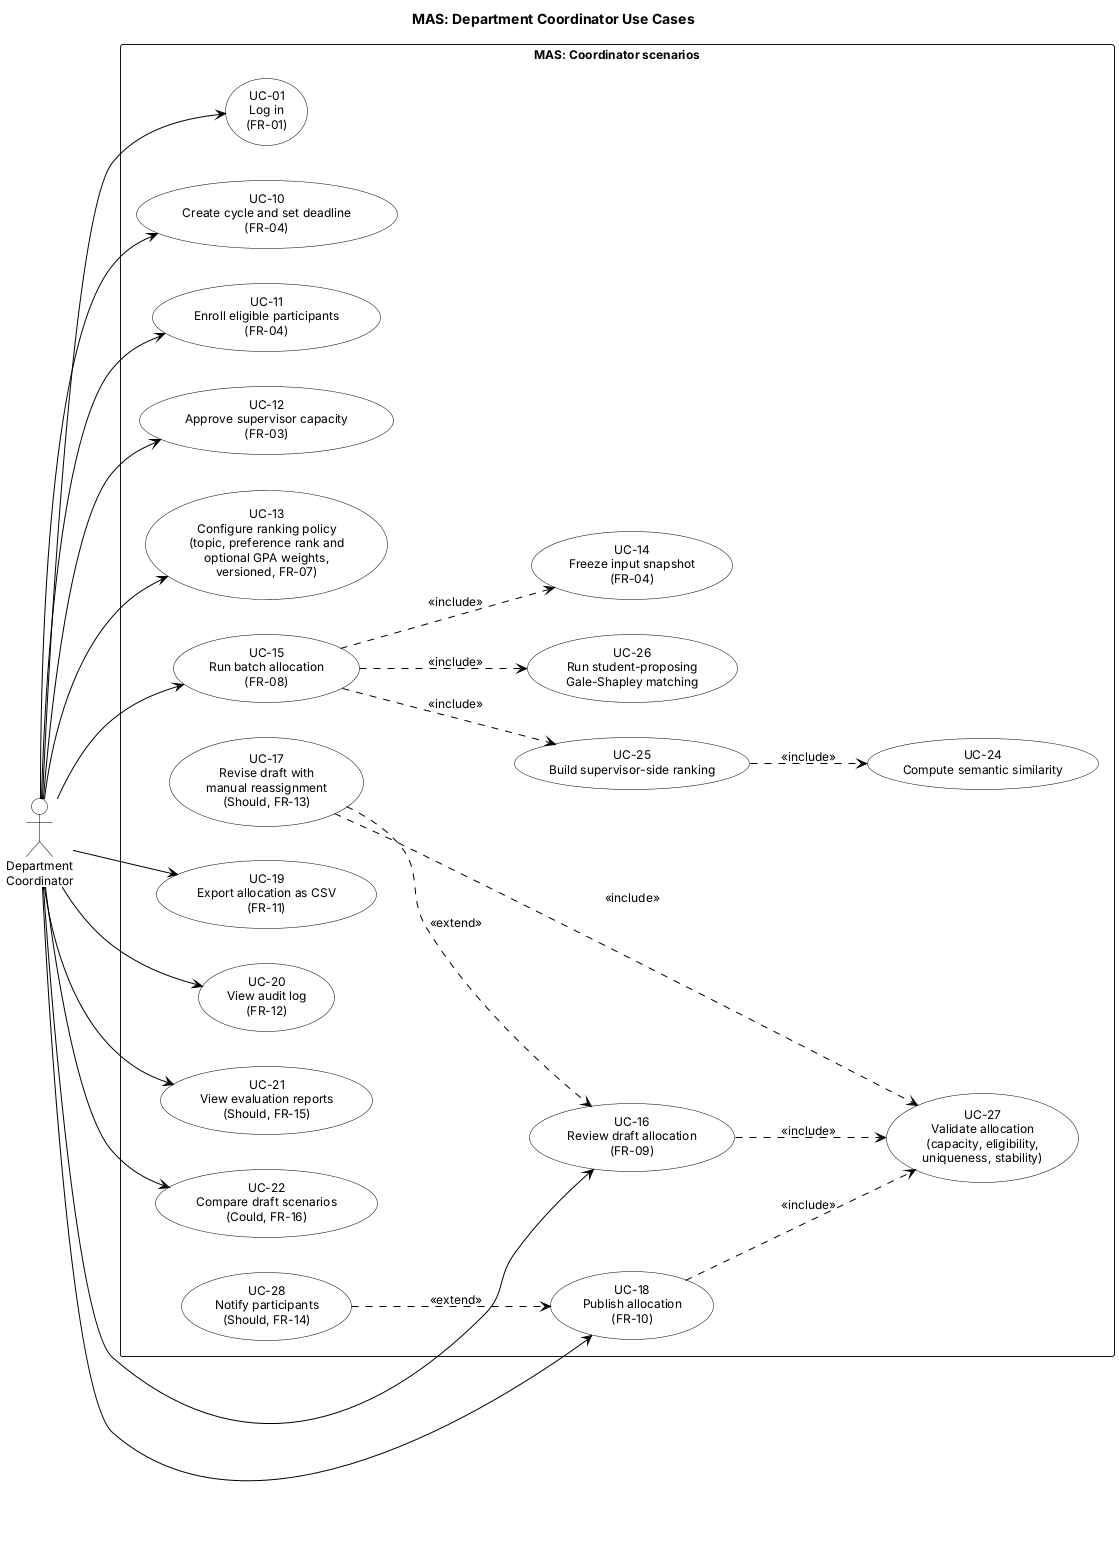
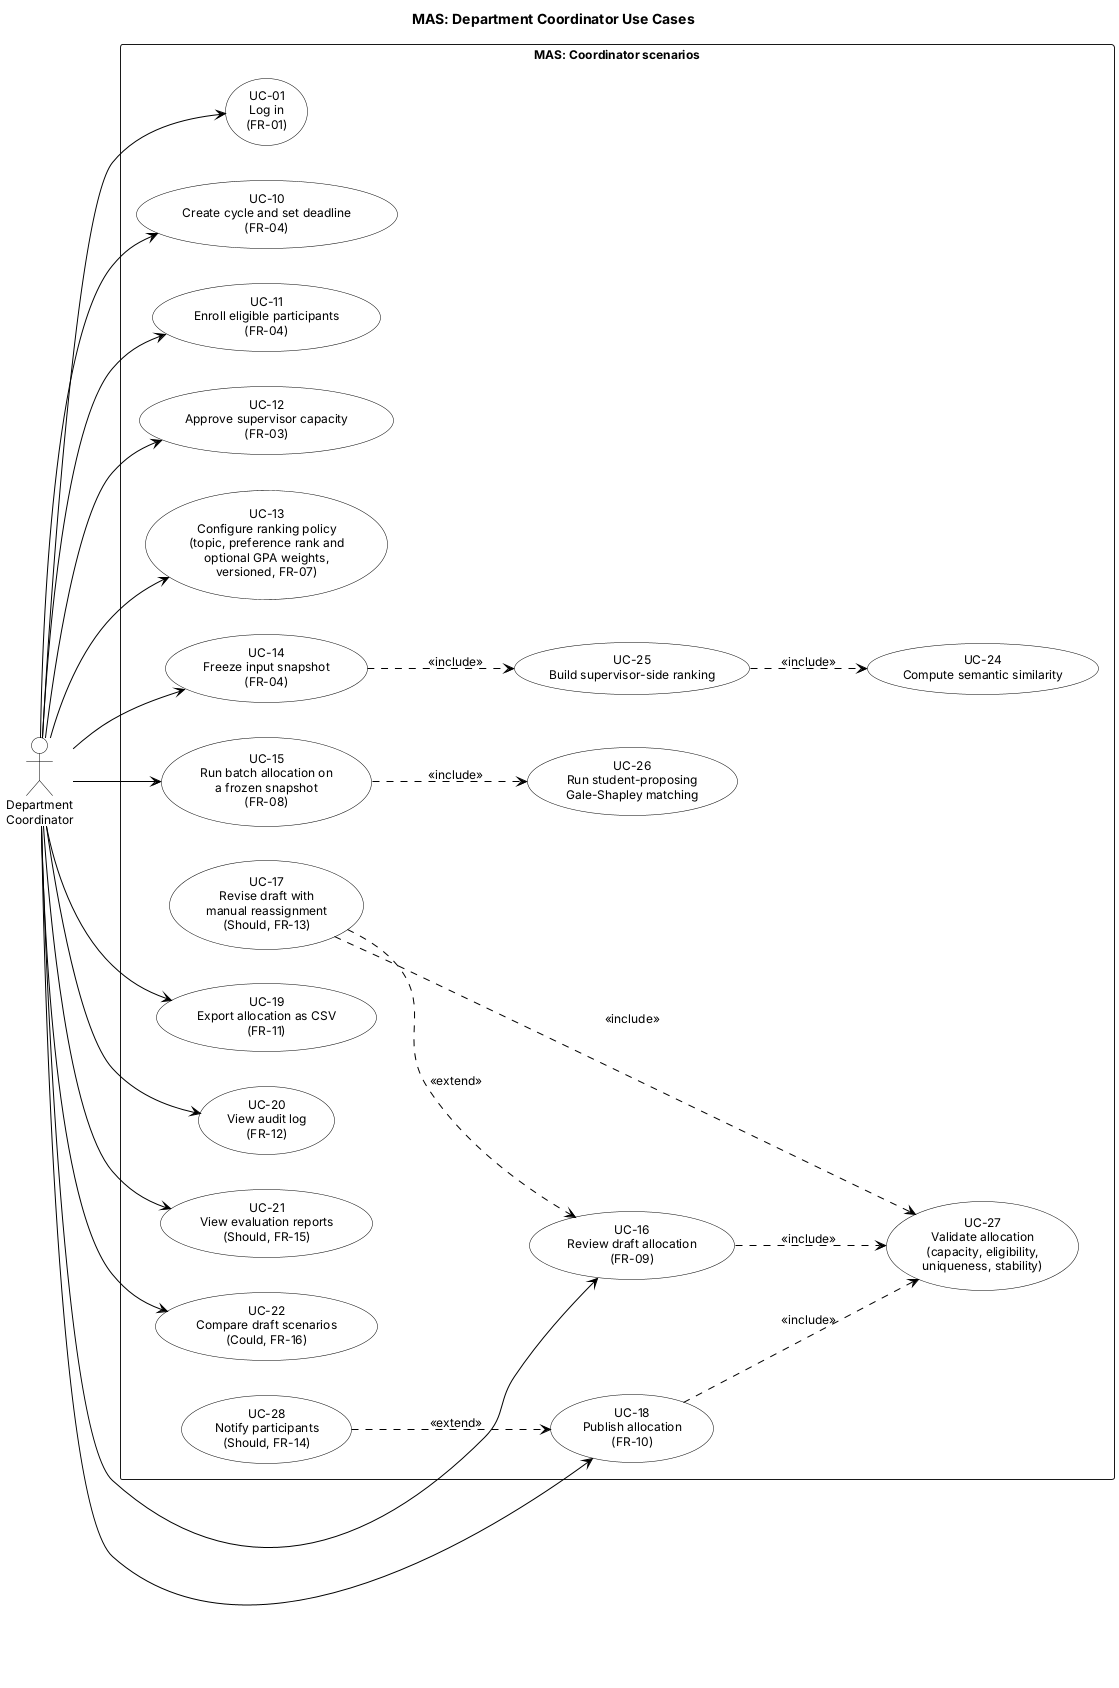
MAS-13: Make the snapshot freeze a separate step before the run
AC-F04 requires a frozen snapshot, with the saved supervisor-side
rankings, before a run can start. The use case model had the run
include the freeze and the ranking. Make UC-14 a coordinator step that
includes UC-25, and let UC-15 use the snapshot and include only the
matching. Align the overview label, the traceability rows and the UC-17
test wording with the current requirements, and drop the reference to
a project overview that is not in the repository.

diff --git a/diagrams/use-case-traceability.md b/diagrams/use-case-traceability.md
@@ -21,10 +21,10 @@ Rendered diagrams are in `exports/`: one overview and one view per actor.
 | UC-11 Enroll eligible participants | Coordinator | FR-04 | AC-F04 | Must |
 | UC-12 Approve supervisor capacity | Coordinator | FR-03 | AC-F03 | Must |
 | UC-13 Configure ranking policy | Coordinator | FR-07 | AC-F07 | Must |
-| UC-14 Freeze input snapshot | Coordinator, included by UC-15 | FR-04 | AC-F04 | Must |
-| UC-15 Run batch allocation | Coordinator | FR-08 | AC-F08 | Must |
+| UC-14 Freeze input snapshot | Coordinator | FR-04 | AC-F04 | Must |
+| UC-15 Run batch allocation | Coordinator, needs the snapshot from UC-14 | FR-08 | AC-F08 | Must |
 | UC-16 Review draft allocation | Coordinator | FR-09 | AC-F09 | Must |
-| UC-17 Revise draft with manual reassignment | Coordinator | FR-13 | Integration tests of valid and invalid overrides | Should |
+| UC-17 Revise draft with manual reassignment | Coordinator | FR-13 | Integration tests of valid and invalid revisions, including the publication checks in AC-F10 | Should |
 | UC-18 Publish allocation | Coordinator | FR-10 | AC-F10 | Must |
 | UC-19 Export allocation as CSV | Coordinator | FR-11 | AC-F11 | Must |
 | UC-20 View audit log | Coordinator | FR-12 | AC-F12 | Must |
@@ -32,7 +32,7 @@ Rendered diagrams are in `exports/`: one overview and one view per actor.
 | UC-22 Compare draft scenarios | Coordinator | FR-16 | Scenario isolation integration test | Could |
 | UC-23 Validate deadline and eligibility | System, included by UC-02 and UC-05 | FR-02, FR-04, FR-06 | AC-F02, AC-F04, AC-F06 | Must |
 | UC-24 Compute semantic similarity | System, included by UC-03 and UC-25 | FR-05, FR-07 | AC-F05, AC-F07 | Must |
-| UC-25 Build supervisor-side ranking | System, included by UC-15 | FR-07 | AC-F07 | Must |
+| UC-25 Build supervisor-side ranking | System, included by UC-14 | FR-07 | AC-F07 | Must |
 | UC-26 Run student-proposing Gale-Shapley matching | System, included by UC-15 | FR-08 | AC-F08 | Must |
 | UC-27 Validate allocation | System, included by UC-16, UC-17 and UC-18 | FR-08, FR-09, FR-10, FR-13 | AC-F08, AC-F09, AC-F10 | Must |
 | UC-28 Notify participants | System, extends UC-18 | FR-14 | Delivery test with a simulated failed channel | Should |
@@ -41,7 +41,7 @@ FR-12 applies to every use case that changes capacity, the ranking policy, prefe
 
 ## What changed from the first version
 
-The first version followed the project overview. After the requirements draft appeared, these parts were changed:
+The first version was drawn before the requirements draft existed. After the draft appeared, these parts were changed:
 
 - The student no longer fills in an academic profile. FR-02 has only the proposal, and the source of the GPA is still an open decision in section 7 of the requirements.
 - The compatibility check before submission was removed. FR-05 gives recommendations for a submitted proposal.
@@ -51,10 +51,11 @@ The first version followed the project overview. After the requirements draft ap
 - Capacity is proposed by the supervisor and approved by the coordinator (FR-03), instead of being set directly.
 - The scoring weights became a ranking policy with three weights: topic fit, student preference rank and optional GPA. The submitted preference list stays the student-side order, and the score cannot reorder it (section 7 of the requirements).
 - Export is CSV only (FR-11). The first version had PDF and Excel.
+- Freezing the input snapshot is a separate coordinator step (UC-14). It builds the supervisor-side rankings that the snapshot saves (AC-F04). Running the allocation (UC-15) uses that snapshot and no longer includes the freeze.
 - Added from the requirements: freezing the input snapshot, validating and publishing an allocation, the audit log, notifications, baseline comparison and scenario comparison.
 
 ## Open points for the team
 
 - UC-04 View supervisor profile is shown in the proposal wireframe but has no requirement. Either add a requirement or remove the button and the use case.
-- FR-01 does not fix the login method, so the diagrams say only "Log in". The choice of identity provider belongs to the architecture decisions.
+- FR-01 does not fix the login method, so the diagrams say only "Log in". The proposal and the architecture diagrams use authorized MAS test accounts for the MVP.
 - The GPA source and who supplies it are still undecided. UC-11 covers enrollment only.
